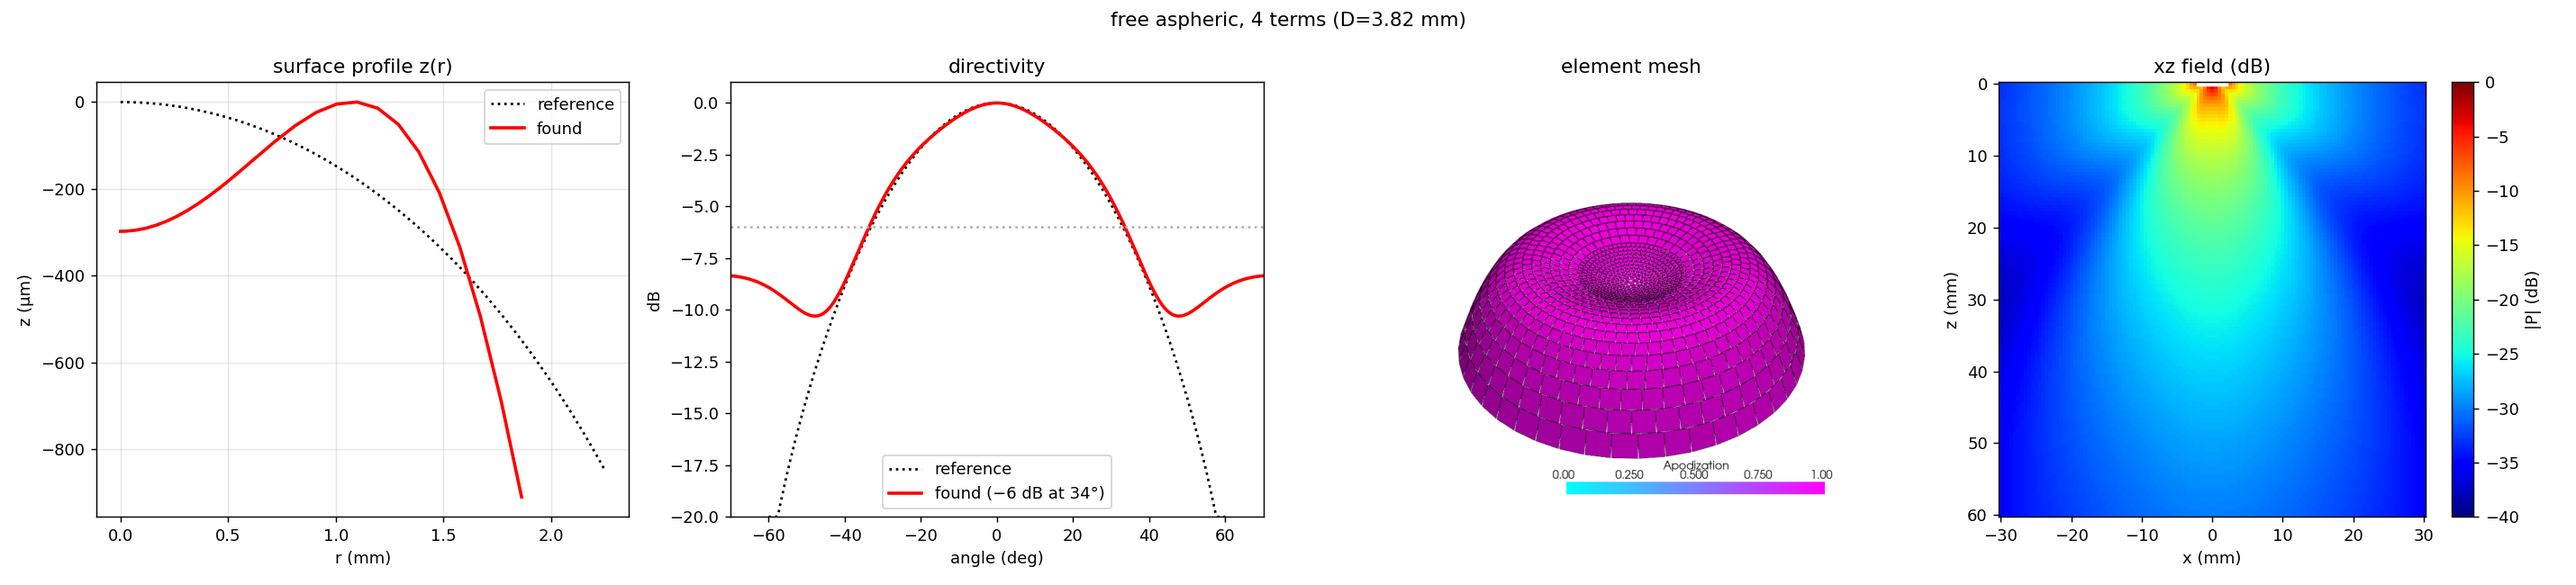
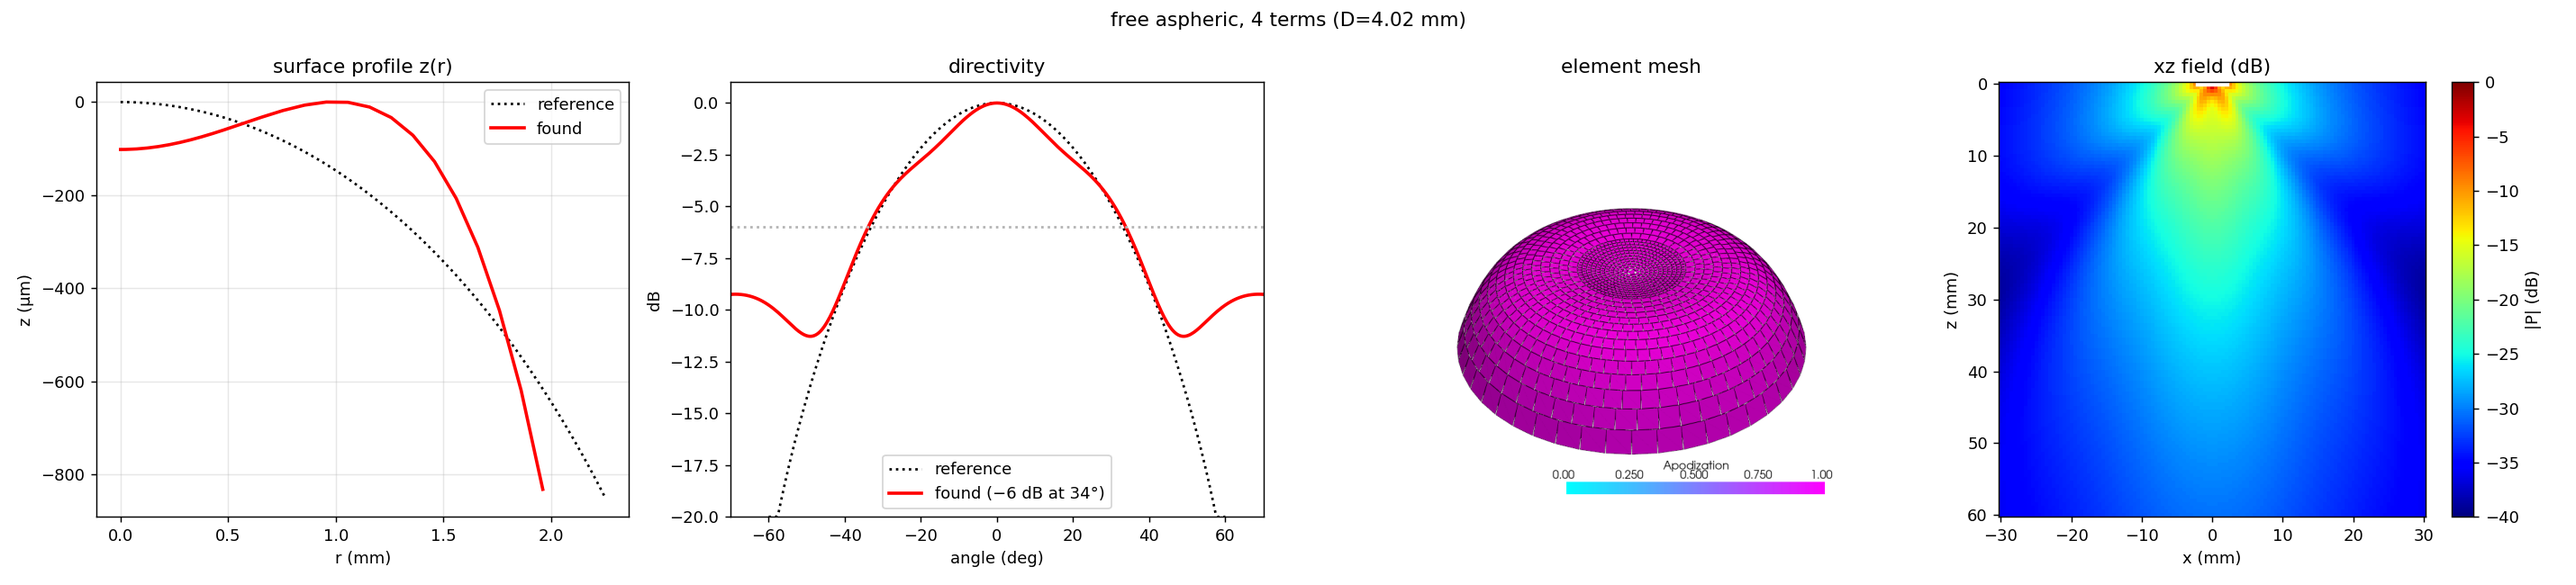
fix(examples): widen example23 fit window to +-50 degrees
Fits the bell over +-50 deg for both multistart caps. Aspheric D=4.02 mm
(34 deg); sphere still runs to the aperture floor (D=2.50 mm, 28.5 deg).

diff --git a/examples/example23_optimize_radial_element.py b/examples/example23_optimize_radial_element.py
@@ -39,7 +39,7 @@ C0, FC = 1540.0, 1e6
 LAMBDA_MM = C0 / FC * 1e3
 TARGET_HALF_DEG = 33.17  # paper's measured −6 dB half-angle with the lens
 ANGLE = np.linspace(-60, 60, 241)
-FIT = np.abs(ANGLE) <= 40.0  # fit the main lobe (±40°), where the bell shape matters
+FIT = np.abs(ANGLE) <= 50.0  # fit the main lobe (±50°), where the bell shape matters
 D_BOUNDS = (2.5, 5.5)
 
 # Paper's doublet collapsed to one effective diverging cap (both faces R = 3.2 mm,

diff --git a/docs/examples/example23_optimize_radial_element.md b/docs/examples/example23_optimize_radial_element.md
@@ -55,7 +55,7 @@ from scipy.optimize import minimize
 from scipy.special import j1
 from esdiva import Emission
 
-# loss = mean-squared dB mismatch against the jinc bell inside the main lobe (±40°),
+# loss = mean-squared dB mismatch against the jinc bell inside the main lobe (±50°),
 # with BOUNDED Nelder–Mead — the bounds keep D and the coeffs in range directly;
 # clipping them inside the loss would flatten the objective past the edge and the
 # simplex would drift onto that plateau. With a FREE diameter the loss vs D is
@@ -81,7 +81,7 @@ res = minimize(loss, x0, method="Nelder-Mead",
 Each is shown with the same four panels: **surface profile** `z(r)` and **directivity**
 (found solid-red vs reference dotted-black), the patch **mesh**, and the **xz** pressure
 plane. The refractive doublet reaches ~30°, the free aspheric ~34°, and the single-term
-sphere shrinks to the smallest allowed aperture (~31°): a lone `r²` cap has no interior
+sphere shrinks to the smallest allowed aperture (~29°): a lone `r²` cap has no interior
 optimum — it only widens by getting smaller — so a single rigid cap cannot cleanly match
 the bell, which the paper's real multilens does.
 
